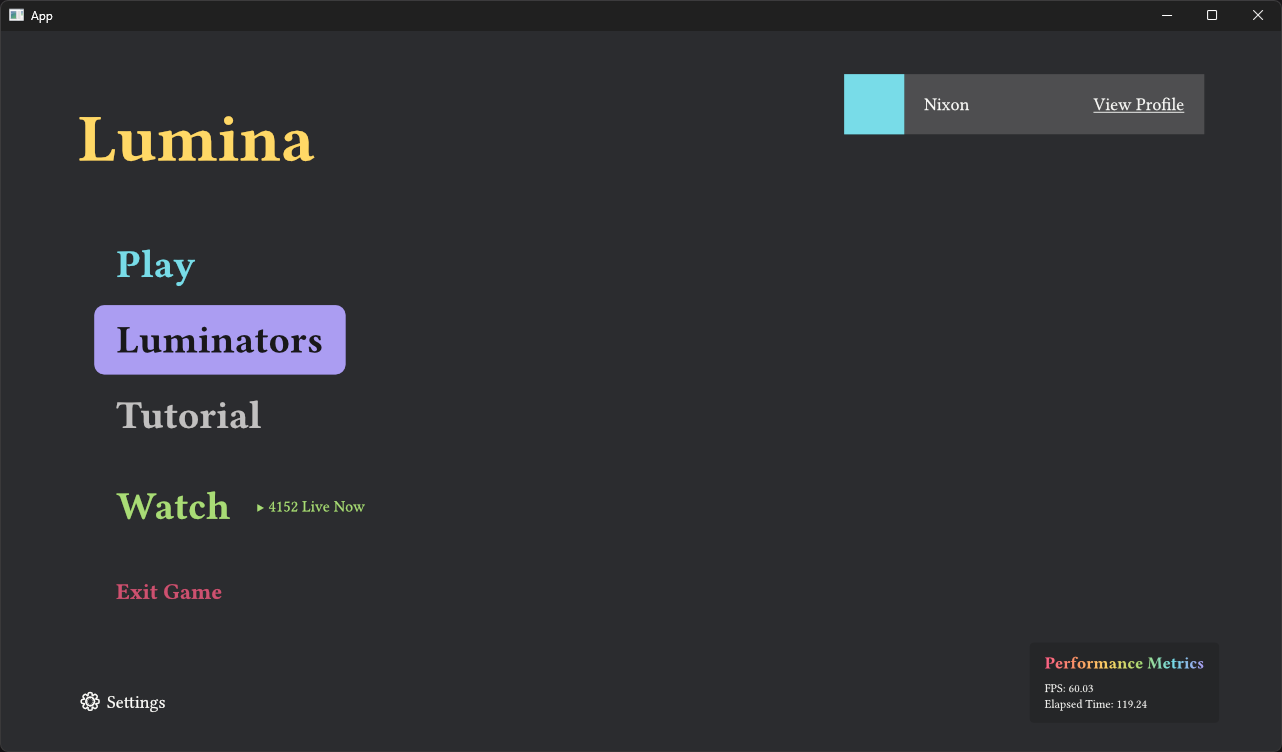
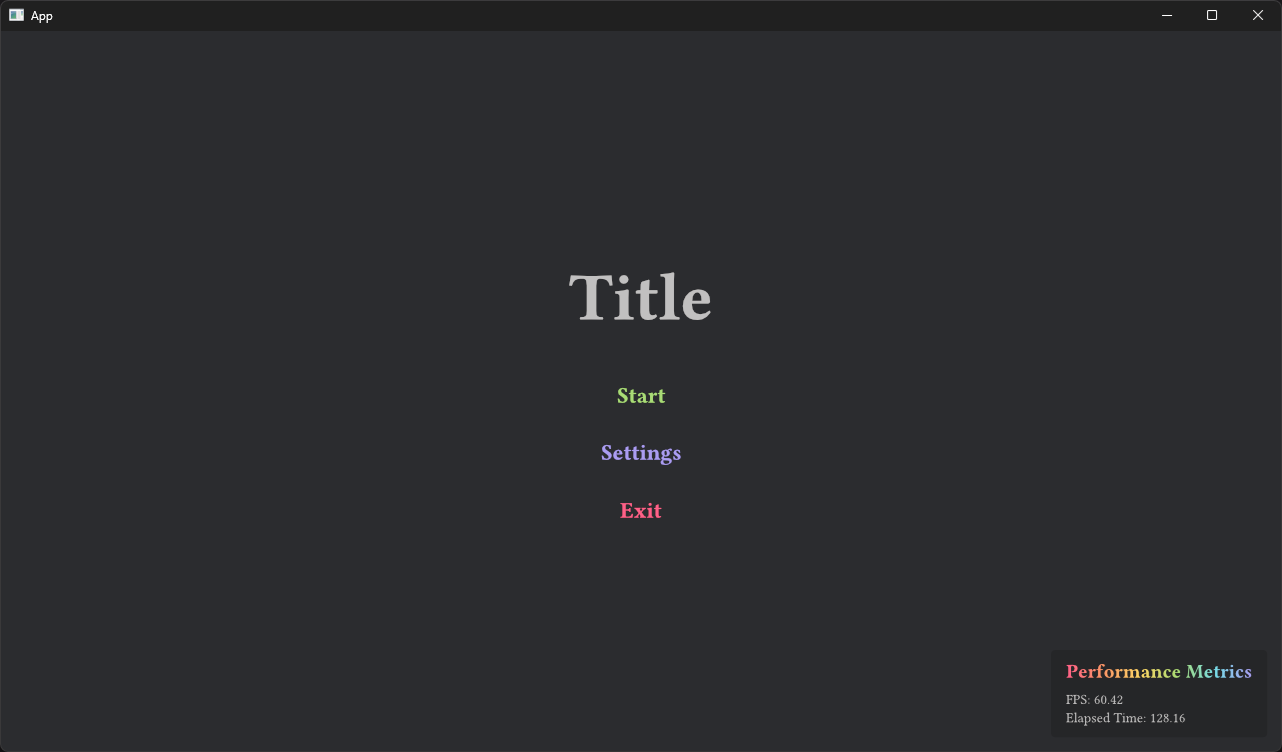
New, simpler game_ui example

diff --git a/examples/game_ui.rs b/examples/game_ui.rs
@@ -1,3 +1,5 @@
+use std::str::FromStr;
+
 use bevy::prelude::*;
 use bevy_vello::prelude::*;
 use velyst::prelude::*;
@@ -23,6 +25,15 @@ fn setup(mut commands: Commands, asset_server: Res<AssetServer>) {
     let handle =
         VelystSourceHandle(asset_server.load("typst/game_ui.typ"));
 
+    // Colors.
+    const RED: &str = "#FF6188";
+    const GREEN: &str = "#A9DC76";
+    const PURPLE: &str = "#AB9DF2";
+
+    let green = viz::Color::from_str(GREEN).unwrap();
+    let purple = viz::Color::from_str(PURPLE).unwrap();
+    let red = viz::Color::from_str(RED).unwrap();
+
     commands
         .spawn(Node {
             width: Val::Percent(100.0),
@@ -30,9 +41,11 @@ fn setup(mut commands: Commands, asset_server: Res<AssetServer>) {
             flex_direction: FlexDirection::Column,
             padding: UiRect::all(Val::VMin(6.0)),
             justify_content: JustifyContent::Center,
+            align_items: AlignItems::Center,
             ..default()
         })
         .with_children(|builder| {
+            // Title.
             builder.spawn((
                 VelystFuncBundle {
                     handle: handle.clone(),
@@ -48,12 +61,43 @@ fn setup(mut commands: Commands, asset_server: Res<AssetServer>) {
                     ..default()
                 },
             ));
+
+            // Buttons.
             builder.spawn((
                 VelystFuncBundle {
                     handle: handle.clone(),
-                    func: ButtonFunc::text("Start").with_fill(
-                        viz::Color::from_u8(0, 255, 0, 255),
-                    ),
+                    func: ButtonFunc::text("Start").with_fill(green),
+                },
+                VelystSize {
+                    width: Val::Auto,
+                    height: Val::Auto,
+                },
+                Node {
+                    padding: UiRect::all(Val::Vh(4.0)),
+                    ..default()
+                },
+                Button,
+            ));
+            builder.spawn((
+                VelystFuncBundle {
+                    handle: handle.clone(),
+                    func: ButtonFunc::text("Settings")
+                        .with_fill(purple),
+                },
+                VelystSize {
+                    width: Val::Auto,
+                    height: Val::Auto,
+                },
+                Node {
+                    padding: UiRect::all(Val::Vh(4.0)),
+                    ..default()
+                },
+                Button,
+            ));
+            builder.spawn((
+                VelystFuncBundle {
+                    handle: handle.clone(),
+                    func: ButtonFunc::text("Exit").with_fill(red),
                 },
                 VelystSize {
                     width: Val::Auto,
@@ -102,7 +146,11 @@ fn button_interaction(
     mut q_buttons: Query<(&mut ButtonFunc, &Interaction)>,
 ) {
     for (mut func, interaction) in q_buttons.iter_mut() {
-        func.hovered = *interaction == Interaction::Hovered;
+        func.interaction_state = match interaction {
+            Interaction::Pressed => 2,
+            Interaction::Hovered => 1,
+            Interaction::None => 0,
+        };
     }
 }
 
@@ -148,7 +196,7 @@ typst_func!(
     struct ButtonFunc {},
     positional_args {
         body: Content,
-        hovered: bool,
+        interaction_state: u8,
     },
     named_args {
         fill: viz::Color,
